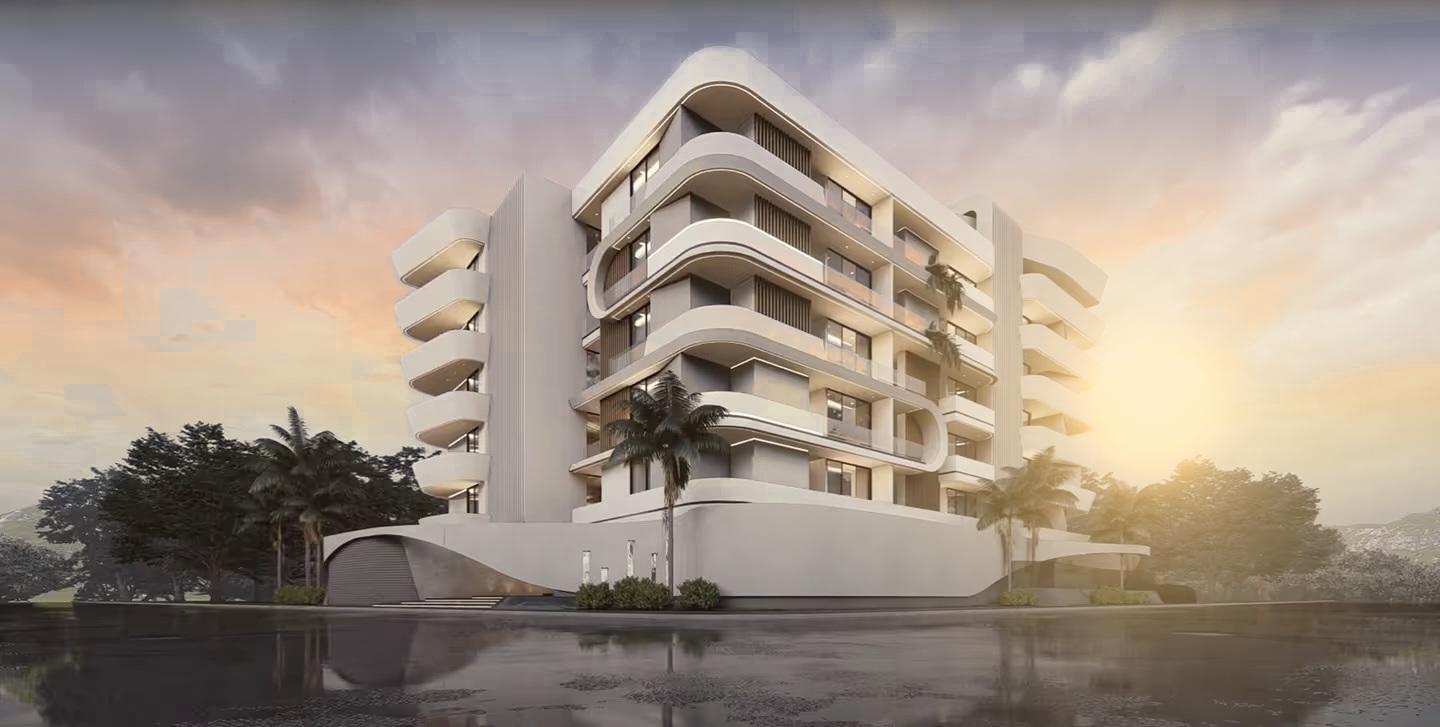
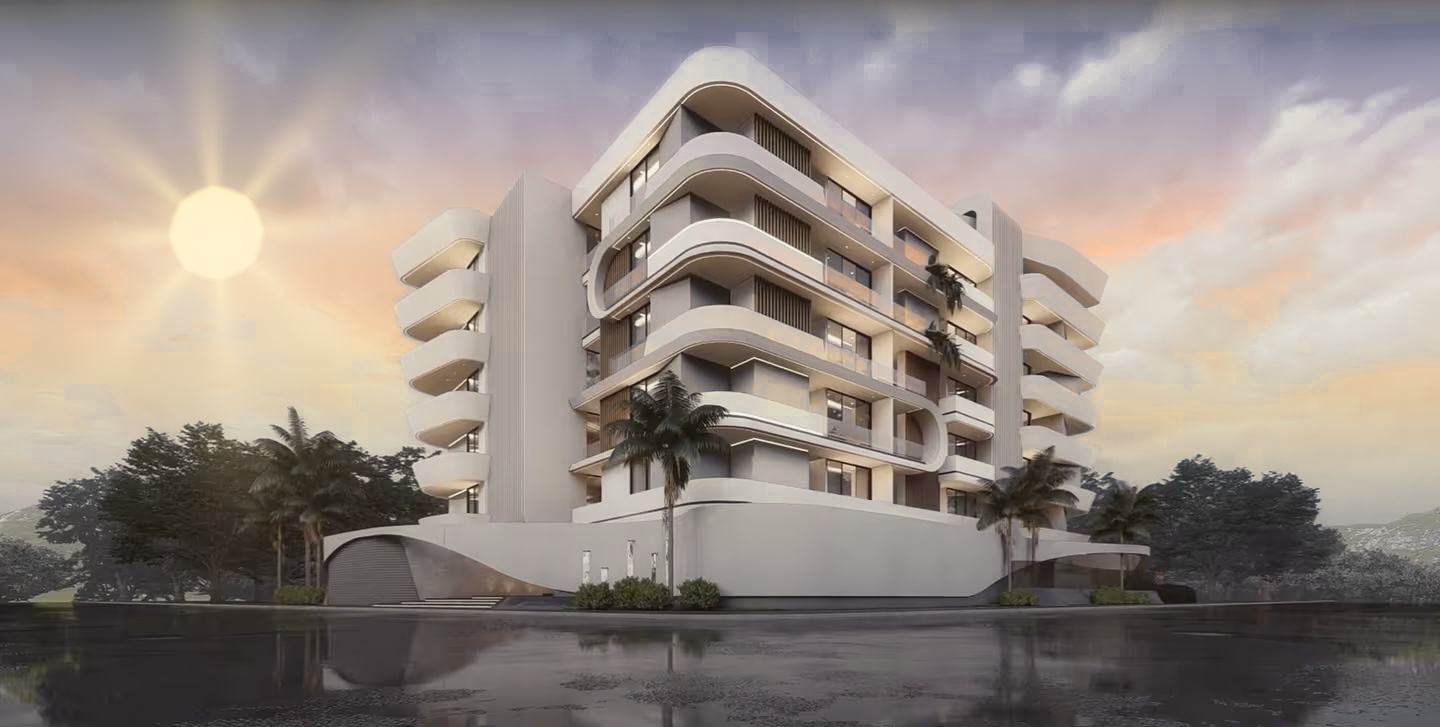
A distinct sun, a clear picture, and type that holds on both
The hero asked for two things that pull against each other: the sun has to
be unmistakable, and the words over it have to be legible. Resolved by
noticing they do not overlap — the type reaches 47% up the frame, the sun
sits at 68% — and shaping the shade to that gap rather than dimming the
whole photograph.

- The shade is one broad ellipse rooted at the foot of the text, anchored to
  the content column rather than the viewport corner: past 86rem the column
  centres, and a corner-anchored wash drifted off the type it was carrying.
  The sun now takes under 7% of it.
- Phones get their own plate. A portrait viewport shows about a quarter of a
  2:1 frame and the sun and the building's corner are half a frame apart, so
  no crop held both. The portrait plate keeps the render at full width and
  grows sky above it for the sun to rise into. <picture> rather than two
  <Image> elements, so a phone downloads one plate and not both.
- A small matching shade for the standing line in the opposite corner.

Measured on the glyphs themselves — a screenshot with the type diffed
against one without it — across 360 to 2560px. Every line clears AA: the
headline 6.20:1 against a 3.0 floor, the amber 4.07:1, the eyebrow 7.24:1,
the button 11.85:1, the nav 4.69:1. The previous figures were taken over
each element's bounding box, which for a block-level <p> meant sampling sky
hundreds of pixels from the nearest letter; they read 1.00 for text that was
in fact legible.

diff --git a/src/components/home/hero.tsx b/src/components/home/hero.tsx
@@ -1,54 +1,87 @@
-import Image from "next/image";
 import Link from "next/link";
 
-export type HeroImage = { src: string; alt: string };
+export type HeroImage = { src: string; alt: string; portraitSrc?: string };
 
 /**
- * The landing hero, to the client's reference design: the brand line on the
- * paper ground at the left, the photograph bleeding in from the right, and a
- * soft wash between them rather than a seam.
+ * The landing hero: one photograph, full bleed, with the brand line over it.
  *
- * The wash does a second job beyond looking like one canvas — it is why the
- * header can sit over the picture with no bar of its own and stay legible.
+ * There is no panel and no left-hand wash. An earlier version put the text on
+ * a paper column beside the picture, which split the page in two and bleached
+ * the half the building stood in. The picture now runs clear edge to edge and
+ * the type sits on it.
  *
- * One picture, not a rotation. That is a plain server component again: no
- * state, no interval, no reduced-motion branch, and no pause control, since
- * WCAG 2.2.2 only applies to something that moves. The home page ships no
- * client JavaScript of its own as a result.
+ * That inverts the palette, and for the better. Over a bright sunrise, ink
+ * needs the ground lightened under it — which is the wash that was doing the
+ * splitting. Over a dark foot, paper needs nothing, and the second line can
+ * finally use the real brand orange: --laterite measures 2.95:1 on paper,
+ * which is why --accent-ink existed as a deepened stand-in, but 5.17:1 on
+ * ink. The colour the brand actually specifies works here and nowhere else.
  *
- * The picture is full bleed at the client's direction — it is the page's
- * background rather than a column beside the text. The photograph is a 36% column rather than 64%,
- * and the headline runs to 7rem rather than 4.9rem — near twice the area.
- * A narrow column also suits the source, which is portrait: less of it is
- * cropped away here than in any wider frame.
+ * Two plates, not one. A phone sees about a quarter of the landscape frame,
+ * and the sun and the building are too far apart to both survive that crop —
+ * so below lg the picture is a portrait plate composed for it. They are
+ * genuinely different images, which is what <picture> is for; two <Image>
+ * elements toggled with `hidden` would make every phone download the desktop
+ * plate as well.
  */
 export function Hero({ image }: { image: HeroImage }) {
   return (
-    <section className="relative min-h-svh overflow-hidden bg-paper">
-      {/* ── Text, over the wash */}
-      <div className="relative z-10 flex min-h-svh flex-col justify-start px-6 pb-14 pt-28 sm:px-10 sm:pt-32 lg:max-w-[42%] lg:justify-center lg:py-0 lg:pl-16 lg:pr-10 lg:pt-24">
+    <section className="relative flex min-h-svh flex-col justify-end overflow-hidden bg-ink">
+      <div className="absolute inset-0">
+        <picture>
+          {image.portraitSrc && (
+            <source media="(max-width: 1023px)" srcSet={image.portraitSrc} />
+          )}
+          {/*
+            A bare <img>, because art direction needs <picture> and
+            next/image cannot express it. Both plates are already sized and
+            compressed for the one place they are used, so the optimiser has
+            nothing left to do; fetchPriority carries the LCP hint that
+            `priority` would have.
+          */}
+          <img
+            src={image.src}
+            alt={image.alt}
+            fetchPriority="high"
+            decoding="async"
+            className="absolute inset-0 h-full w-full object-cover object-[30%_center] lg:object-left"
+          />
+        </picture>
+
+        {/* Shade shaped to the type and clear of the sun — see .u-hero-shade. */}
+        <div aria-hidden className="u-hero-shade absolute inset-0" />
+        <div
+          aria-hidden
+          className="u-hero-shade-corner absolute inset-0 hidden lg:block"
+        />
         {/*
-          ink-soft rather than the site's usual muted eyebrow. Muted is tuned
-          for flat paper, where it measures 4.91:1; over the photograph, even
-          behind the wash, it fell to 3.65 against a 4.5 floor for text this
-          size. ink-soft has the headroom the image demands.
+          A short fall of shade under the header. The wordmark and nav sit
+          over open sky, which at dawn is dusky but not dark, and paper type
+          on it is marginal without this.
         */}
-        <p className="u-mono leading-[1.9] text-ink-soft">
+        <div
+          aria-hidden
+          className="absolute inset-x-0 top-0 h-36 bg-gradient-to-b from-ink/88 via-ink/40 via-42% to-transparent sm:h-44"
+        />
+      </div>
+
+      <div className="relative z-10 mx-auto w-full max-w-[86rem] px-6 pb-14 pt-32 sm:px-10 sm:pb-16 lg:px-16 lg:pb-20">
+        <p className="u-mono leading-[1.9] text-paper">
           Spaces for a
           <br />
           more meaningful tomorrow
         </p>
-        <span aria-hidden className="mt-5 block h-px w-20 bg-line" />
+        <span aria-hidden className="mt-5 block h-px w-20 bg-paper/40" />
 
-        <h1 className="mt-10 text-[clamp(2.6rem,4.8vw,4.6rem)] leading-[1.08] text-ink">
+        <h1 className="mt-7 max-w-[16ch] text-[clamp(2.4rem,5.1vw,4.5rem)] leading-[1.06] text-paper">
           Thoughtfully&nbsp;Built,
-          <span className="mt-1 block text-accent-ink">Deeply&nbsp;Lived.</span>
+          <span className="mt-1 block text-laterite">Deeply&nbsp;Lived.</span>
         </h1>
 
-        <div className="mt-12">
+        <div className="mt-8">
           <Link
             href="/projects"
-            className="u-mono inline-flex items-center gap-4 border border-ink/25 px-7 py-5 text-ink transition-colors duration-hover ease-hover hover:border-ink hover:bg-ink hover:text-paper"
+            className="u-mono inline-flex items-center gap-4 border border-paper/60 px-7 py-5 text-paper transition-colors duration-hover ease-hover hover:border-paper hover:bg-paper hover:text-ink"
           >
             Discover our projects
             <svg
@@ -65,51 +98,16 @@ export function Hero({ image }: { image: HeroImage }) {
         </div>
       </div>
 
-      {/* ── The photograph. In flow beneath the text on small screens; at lg it
-             fills the right of the section and washes into the paper. */}
-      <div className="absolute inset-0">
-        <Image
-          src={image.src}
-          alt={image.alt}
-          fill
-          priority
-          fetchPriority="high"
-          sizes="100vw"
-          className="object-cover object-[85%_center] lg:object-left"
-        />
-
-        {/*
-          Three washes, all decorative. The first dissolves the left edge into
-          the panel. The second keeps the top light enough for the nav and the
-          WhatsApp pill to sit over the picture. The third does the same for
-          the caption in the corner — as literal rgba, because
-          var(--color-ink)/0.55 does not parse inside a gradient and was
-          being dropped silently.
-        */}
-        <div
-          aria-hidden
-          className="absolute inset-0 bg-gradient-to-b from-paper from-0% via-paper/96 via-46% to-transparent to-70% lg:via-38% lg:to-56% lg:bg-gradient-to-r"
-        />
-        <div
-          aria-hidden
-          className="absolute inset-x-0 top-0 h-40 bg-gradient-to-b from-paper to-transparent"
-        />
-        <div
-          aria-hidden
-          className="absolute bottom-0 right-0 hidden h-[24rem] w-[22rem] bg-[radial-gradient(ellipse_at_bottom_right,rgba(28,26,24,0.94)_0%,rgba(28,26,24,0.72)_34%,rgba(28,26,24,0.3)_58%,transparent_80%)] lg:block"
-        />
-
-        <p className="u-mono absolute bottom-9 right-8 hidden text-right leading-[2] text-paper lg:block">
-          Homes
-          <br />
-          for a
-          <br />
-          brighter
-          <br />
-          tomorrow
-          <span aria-hidden className="mt-3 ml-auto block h-px w-10 bg-paper/70" />
-        </p>
-      </div>
+      <p className="u-mono absolute bottom-10 right-10 z-10 hidden text-right leading-[2] text-paper/80 lg:block">
+        Homes
+        <br />
+        for a
+        <br />
+        brighter
+        <br />
+        tomorrow
+        <span aria-hidden className="mt-3 ml-auto block h-px w-10 bg-paper/50" />
+      </p>
     </section>
   );
 }

diff --git a/src/components/site/header.tsx b/src/components/site/header.tsx
@@ -33,26 +33,36 @@ const MORE = [
 
 export function SiteHeader() {
   /*
-    On the landing page at lg the hero runs to the top of the viewport and
-    the header sits over it with no bar of its own, which is what makes the
-    page read as one canvas. Below lg the header is two rows and the image
-    is stacked under the text, so there is no canvas to preserve and it stays
-    a normal bar. Everywhere else it is always the sticky bar — transparent
-    over scrolling content would be unreadable.
+    The landing hero is a full-bleed photograph at every width now, so the
+    header sits over it with no bar of its own at every width too. It was
+    transparent only from lg while the picture was a column; leaving that in
+    place would have put paper type on a paper bar on phones, which is
+    invisible. Everywhere else it is the sticky bar — transparent over
+    scrolling content would be unreadable.
   */
   const overlay = usePathname() === "/";
+  /*
+    The landing hero is a photograph with a dark foot, so over it the header
+    is set in paper. Everywhere else it sits on the paper ground and is ink.
+    The WhatsApp pill is filled either way, so its contrast never depends on
+    what is behind it.
+  */
+  const onImage = overlay;
 
   return (
     <header
-      className={`sticky top-0 z-50 bg-paper/92 backdrop-blur-sm ${
+      className={
         overlay
-          ? "lg:absolute lg:inset-x-0 lg:bg-transparent lg:backdrop-blur-none"
-          : ""
-      }`}
+          ? "absolute inset-x-0 top-0 z-50"
+          : "sticky top-0 z-50 bg-paper/92 backdrop-blur-sm"
+      }
     >
       <div className="mx-auto flex h-20 items-center gap-3 px-4 min-[400px]:px-5 sm:h-24 sm:px-10 lg:px-16">
         <Link href="/" className="shrink-0" aria-label={`${site.name} — home`}>
-          <Logo decorative className="h-8 w-auto text-ink min-[400px]:h-9 sm:h-11 lg:h-13" />
+          <Logo
+            decorative
+            className={`h-8 w-auto min-[400px]:h-9 sm:h-11 lg:h-13 ${onImage ? "text-paper" : "text-ink"}`}
+          />
         </Link>
 
         {/* Nav and the pill travel together, hard right against the wordmark. */}
@@ -63,7 +73,11 @@ export function SiteHeader() {
                 <li key={item.href}>
                   <Link
                     href={item.href}
-                    className="whitespace-nowrap text-[0.8125rem] text-ink transition-colors duration-hover ease-hover hover:text-accent-ink min-[400px]:text-[0.875rem] sm:text-[0.95rem]"
+                    className={`whitespace-nowrap text-[0.8125rem] transition-colors duration-hover ease-hover min-[400px]:text-[0.875rem] sm:text-[0.95rem] ${
+                      onImage
+                        ? "text-paper hover:text-laterite"
+                        : "text-ink hover:text-accent-ink"
+                    }`}
                   >
                     {item.label}
                   </Link>
@@ -73,7 +87,7 @@ export function SiteHeader() {
           </nav>
 
           <WhatsAppPill className="inline-flex" />
-          <MenuPanel links={MORE} />
+          <MenuPanel links={MORE} tone={onImage ? "paper" : "ink"} />
         </div>
       </div>
     </header>

diff --git a/src/app/globals.css b/src/app/globals.css
@@ -144,6 +144,67 @@
     color: var(--color-paper);
   }
 
+  /*
+    The hero's shade. Two things have to be true at once: the type must be
+    legible over a photograph, and the sun must stay the brightest thing on
+    the page — it is the whole reason the client chose this frame.
+
+    They fit together because they do not overlap. The words are bottom-left
+    and reach 47% up the frame; the sun sits at 68%. So the shade is one
+    broad, soft ellipse rooted at the foot of the text, strong where the
+    words are and gone before it reaches the sky. Measured on the glyphs
+    themselves, the worst line clears AA with room to spare while the sun
+    takes under 7% of it.
+
+    The ellipse is anchored to the left edge of the content column, not the
+    viewport corner: past 86rem the column centres, and a corner-anchored
+    wash drifts away from the type it exists to carry.
+  */
+  .u-hero-shade {
+    --shade-w: 56rem;
+    --shade-h: 42rem;
+    --shade-x: max(0px, (100% - 86rem) / 2);
+    background: radial-gradient(
+      var(--shade-w) var(--shade-h) at var(--shade-x) 100%,
+      rgba(28, 26, 24, 0.96) 0%,
+      rgba(28, 26, 24, 0.94) 30%,
+      rgba(28, 26, 24, 0.88) 50%,
+      rgba(28, 26, 24, 0.76) 62%,
+      rgba(28, 26, 24, 0.5) 74%,
+      rgba(28, 26, 24, 0.26) 84%,
+      rgba(28, 26, 24, 0.1) 92%,
+      transparent 100%
+    );
+  }
+
+  /*
+    Below lg the picture is the portrait plate, where the sun sits far higher
+    in the frame and the words take a larger share of it. Fixed radii sized
+    for a desktop frame swallow a phone whole, so here they are a share of
+    the viewport instead.
+  */
+  @media (max-width: 1023px) {
+    .u-hero-shade {
+      --shade-w: 150vw;
+      --shade-h: 68svh;
+    }
+  }
+
+  /*
+    The same idea for the standing line in the opposite corner, at a fifth
+    the size. It only exists from lg up, where that line does.
+  */
+  .u-hero-shade-corner {
+    background: radial-gradient(
+      28rem 16rem at 100% 100%,
+      rgba(28, 26, 24, 0.92) 0%,
+      rgba(28, 26, 24, 0.85) 45%,
+      rgba(28, 26, 24, 0.66) 70%,
+      rgba(28, 26, 24, 0.34) 85%,
+      transparent 100%
+    );
+  }
+
   /* Eyebrows, status labels, RERA numbers, coordinates. */
   .u-mono {
     font-family: var(--font-mono);

diff --git a/src/lib/home-showcase.ts b/src/lib/home-showcase.ts
@@ -15,6 +15,13 @@ import { join } from "node:path";
  * top-right corner, left over from the video frame it was captured from.
  * That is patched out here rather than left to appear at full bleed.
  *
+ * There is a second, portrait plate for phones. A portrait viewport shows
+ * roughly a quarter of a 2:1 frame, and the sun and the building's corner
+ * are half a frame apart, so no crop of the landscape plate holds both. The
+ * portrait plate keeps the render at full width and grows the sky above it
+ * for the sun to rise into; the sky it grows into is the render's own cloud
+ * band, smoothed and stretched. Absent, the landscape plate serves both.
+ *
  * IT IS STILL A RENDER, not a photograph, and Curve is not built. Regrading
  * a render's sky is ordinary practice and makes no claim a render does not
  * already make — but if this image is ever captioned or presented as a
@@ -23,12 +30,13 @@ import { join } from "node:path";
  */
 const HERO = {
   file: "curve-sunrise.jpg",
+  portraitFile: "curve-sunrise-portrait.jpg",
   alt: "Curve at sunrise: a five-storey apartment building whose white balconies curve around each corner, the sun rising through trees to its left and warming the façade.",
 } as const;
 
 const HOME_DIR = join("images", "home");
 
-export type HeroImage = { src: string; alt: string };
+export type HeroImage = { src: string; alt: string; portraitSrc?: string };
 
 /**
  * Reads once at module load, on the server, like the project content. Absent
@@ -36,10 +44,16 @@ export type HeroImage = { src: string; alt: string };
  * landing page with an empty background.
  */
 export function getHeroImage(): HeroImage | undefined {
-  const onDisk = join(process.cwd(), "public", HOME_DIR, HERO.file);
-  if (!existsSync(onDisk)) return undefined;
+  const href = (file: string) => `/${HOME_DIR}/${file}`.replaceAll("\\", "/");
+  const present = (file: string) =>
+    existsSync(join(process.cwd(), "public", HOME_DIR, file));
+
+  if (!present(HERO.file)) return undefined;
   return {
-    src: `/${HOME_DIR}/${HERO.file}`.replaceAll("\\", "/"),
+    src: href(HERO.file),
     alt: HERO.alt,
+    portraitSrc: present(HERO.portraitFile)
+      ? href(HERO.portraitFile)
+      : undefined,
   };
 }

diff --git a/src/components/site/menu-panel.tsx b/src/components/site/menu-panel.tsx
@@ -20,7 +20,14 @@ export type MenuLink = { href: string; label: string };
  * it, focus returns to the button when it does, and the button reports its
  * state so a screen reader knows whether the panel is open.
  */
-export function MenuPanel({ links }: { links: readonly MenuLink[] }) {
+export function MenuPanel({
+  links,
+  tone = "ink",
+}: {
+  links: readonly MenuLink[];
+  /** "paper" when the header overlays a dark hero rather than the page. */
+  tone?: "ink" | "paper";
+}) {
   const [open, setOpen] = useState(false);
   const wrapRef = useRef<HTMLDivElement>(null);
   const buttonRef = useRef<HTMLButtonElement>(null);
@@ -54,7 +61,11 @@ export function MenuPanel({ links }: { links: readonly MenuLink[] }) {
         aria-expanded={open}
         aria-controls="more-menu"
         aria-label={open ? "Close menu" : "Open menu"}
-        className="flex size-9 shrink-0 items-center justify-center rounded-full border border-ink/25 text-ink transition-colors duration-hover ease-hover hover:border-ink sm:size-10"
+        className={`flex size-9 shrink-0 items-center justify-center rounded-full border transition-colors duration-hover ease-hover sm:size-10 ${
+          tone === "paper"
+            ? "border-paper/50 text-paper hover:border-paper"
+            : "border-ink/25 text-ink hover:border-ink"
+        }`}
       >
         <svg aria-hidden viewBox="0 0 20 14" className="h-3 w-5" fill="none" stroke="currentColor" strokeWidth="1.5">
           {open ? (
